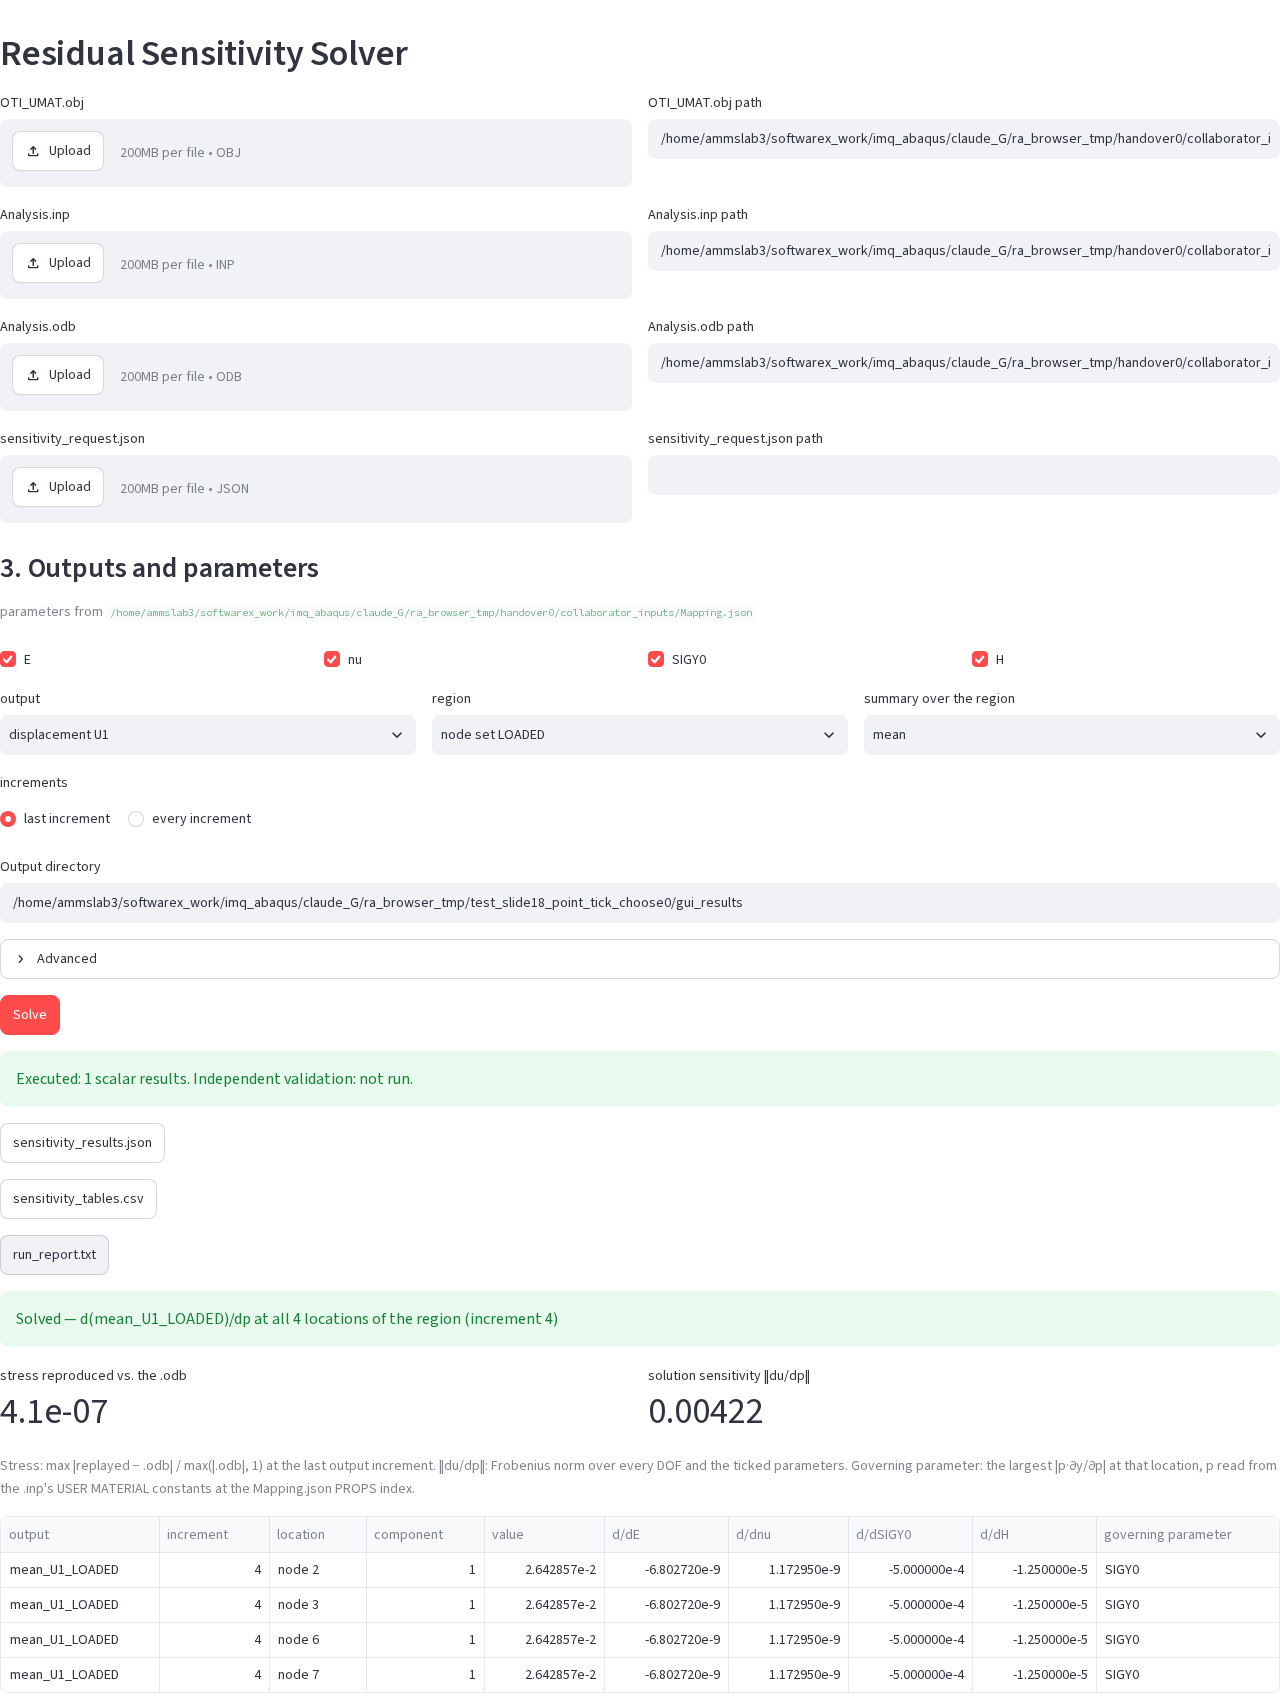
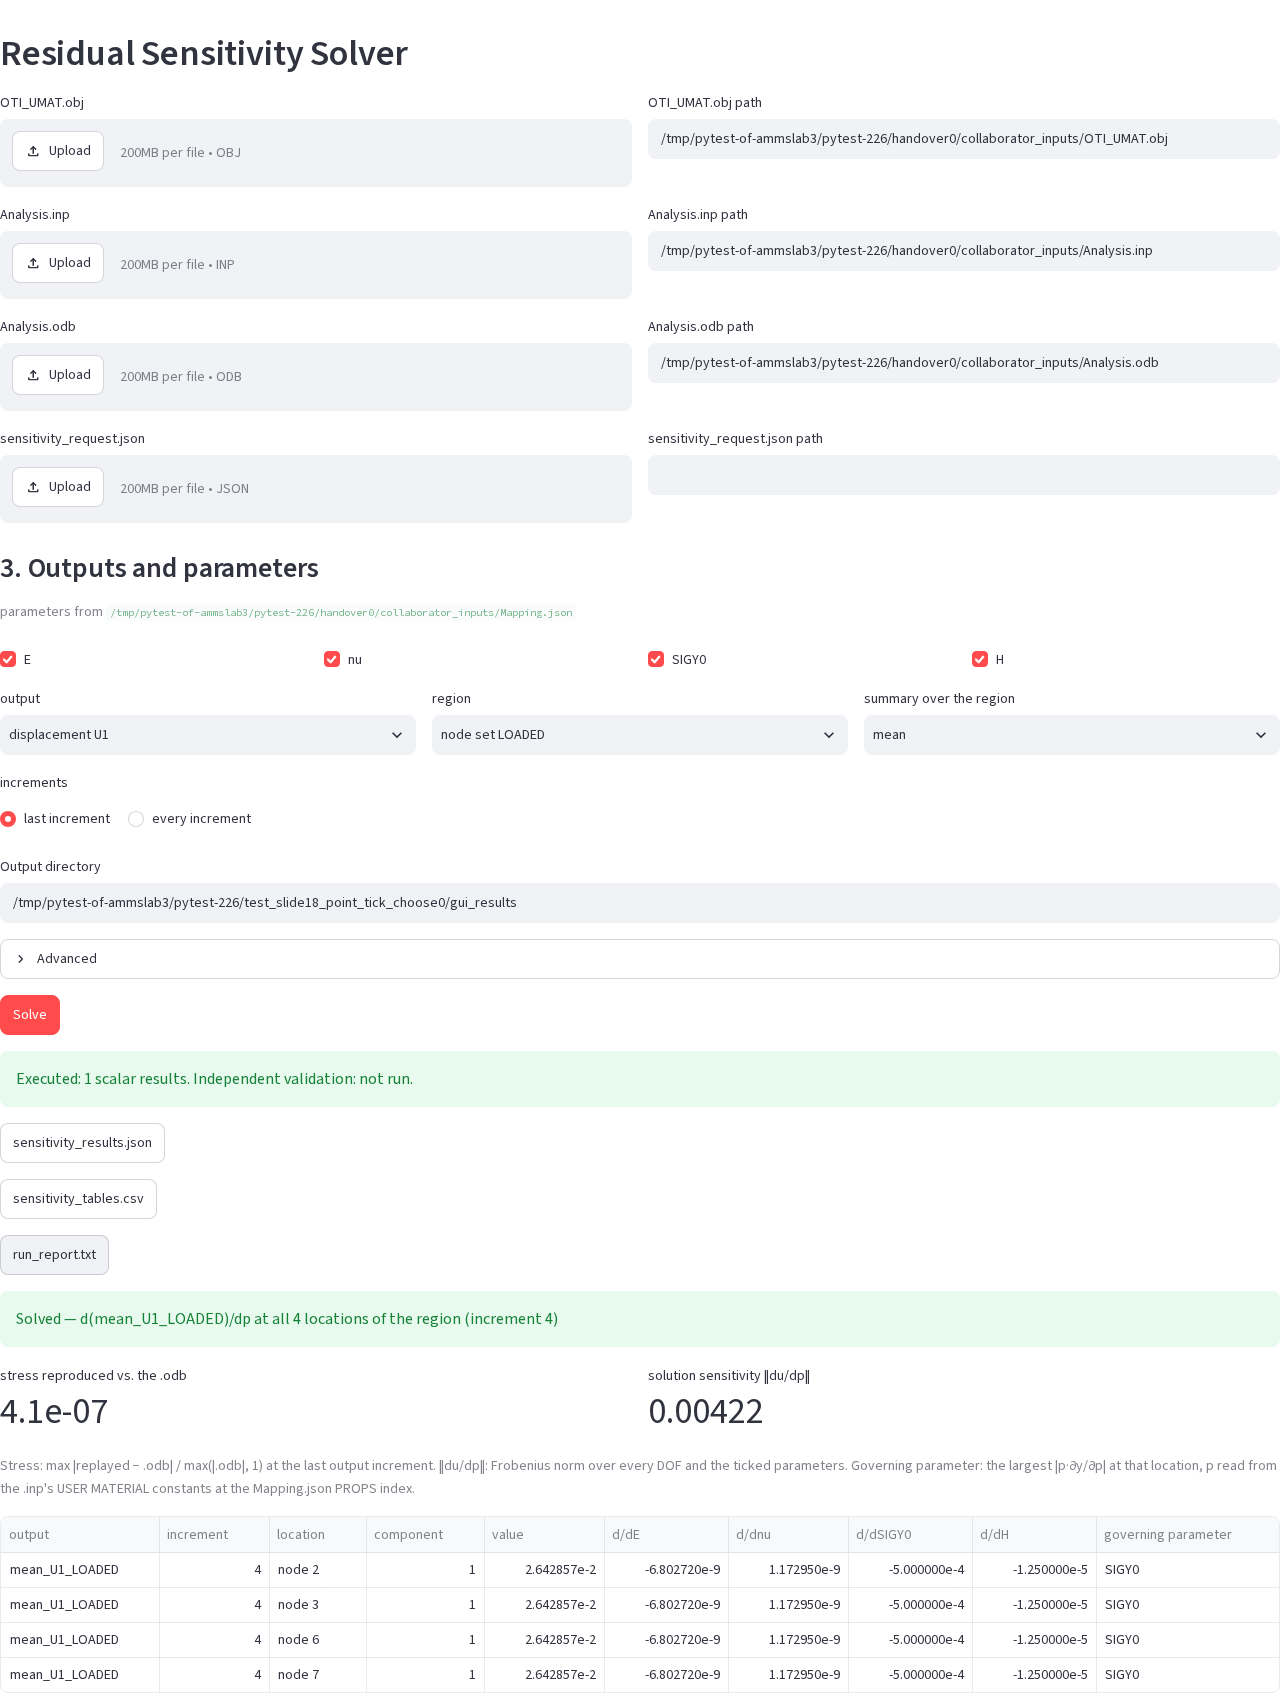
Show the equivalent plastic strain at every integration point after Solve
The browser test now makes a second Solve on the same saved analysis, SDV1
over the whole mesh, and checks the eight integration points against the
uniaxial reference (EQPLAS = (300-SIGY0)/H, dEQPLAS/dSIGY0 = -1/H,
dEQPLAS/dH = -(300-SIGY0)/H^2). The screenshot of that run is in docs/GUI.md.

Offline suite: 56 failed, 299 passed, 19 skipped, 1 deselected, 5 errors
(the pre-existing fixture-fingerprint failures only).

(cherry picked from commit 845e09befee74203239fbc0f2f801874dd350e90)

diff --git a/tests/gui/test_imqcam_solve_screen_browser.py b/tests/gui/test_imqcam_solve_screen_browser.py
@@ -128,7 +128,30 @@ def test_slide18_point_tick_choose_solve(server, handed_over, tmp_path):
             downloads[name] = tmp_path / name
             event.value.save_as(downloads[name])
         save_screenshot(panel, "resasm_solve.png")
+
+        # The same analysis, the equivalent plastic strain at every integration
+        # point of the whole mesh: a new output directory, one more Solve.
+        panel.get_by_label("Output directory", exact=True).fill(str(tmp_path / "gui_sdv"))
+        panel.get_by_label("Output directory", exact=True).press("Enter")
+        settle(page)
+        output = panel.get_by_role("combobox", name="output", exact=True)
+        output.click()
+        output.fill("state variable SDV1")  # the list is long; type to filter it
+        page.get_by_role("option", name="state variable SDV1", exact=True).click()
+        settle(page)
+        expect(panel.get_by_role("combobox", name="region", exact=True)).to_match_aria_snapshot(
+            '- combobox "region": whole mesh')
+        panel.get_by_role("button", name="Solve", exact=True).click()
+        expect(panel.get_by_text(re.compile(r"^Solved — d\(mean_SDV1_all\)/dp at all 8 locations"))).to_be_visible(
+            timeout=600000)
+        settle(page)
+        save_screenshot(panel, "resasm_solve_sdv_all_points.png")
         browser.close()
+    sdv = json.loads((tmp_path / "gui_sdv" / "sensitivity_results.json").read_text())
+    (sdv_row,) = sdv["results"]
+    assert sdv_row["value"] == pytest.approx((300 - SIGY0) / H, rel=1e-5)
+    assert sdv_row["derivatives"]["SIGY0"] == pytest.approx(-1 / H, rel=1e-5)
+    assert sdv_row["derivatives"]["H"] == pytest.approx(-(300 - SIGY0) / H ** 2, rel=1e-5)
 
     summary = json.loads(downloads["sensitivity_results.json"].read_text())
     assert "Status: executed successfully" in downloads["run_report.txt"].read_text()

diff --git a/docs/GUI.md b/docs/GUI.md
@@ -103,12 +103,21 @@ The same request through `resasm request` gave identical numbers. Stress was
 reproduced to 4.1e-07, ‖du/dp‖ was 0.00422, and the maximum scaled free
 residual was 4.12e-07.
 
+A second Solve on the same analysis chose state variable SDV1 (equivalent
+plastic strain) over the whole mesh. The table has one row per integration
+point, all eight of them. Each has EQPLAS 2.500000e-2 = (300-SIGY0)/H,
+dEQPLAS/dSIGY0 = -5.000000e-4 = -1/H and dEQPLAS/dH = -1.250000e-5 =
+-(300-SIGY0)/H². dE is at most 9.3e-23 and dnu at most 3.1e-17, both zero to
+rounding as the uniaxial reference says:
+
+![Equivalent plastic strain and its derivatives at every integration point](screenshots/resasm_solve_sdv_all_points.png)
+
 ## Tests
 
 | Test | What it drives | Run |
 | --- | --- | --- |
 | `tests/gui/test_imqcam_solve_screen.py` | the screen through `streamlit.testing` (AppTest), with a freshly built OTI object and its Mapping.json. The ODB export is replaced by the genuine export of the same ODB (`tests/fixtures/presentation_j2/fields.json`). Checks the ticks, output, region and Solve for U on node set LOADED, S11 and SDV1 at every integration point, and RF1 on XZERO against the uniaxial references and against `resasm request`. Also checks that a supplied request file still wins and that there is nothing to tick without a mapping | the offline suite |
-| `tests/gui/test_imqcam_solve_screen_browser.py` | slide 17's hand-over consumed by slide 18 in headless Chromium, on the real ODB (licensed Abaqus Python). Writes `docs/screenshots/resasm_solve.png` | `python -m pytest -m gui tests/gui` (also marked `abaqus`) |
+| `tests/gui/test_imqcam_solve_screen_browser.py` | slide 17's hand-over consumed by slide 18 in headless Chromium, on the real ODB (licensed Abaqus Python): U1 on node set LOADED, then SDV1 on the whole mesh. Writes `docs/screenshots/resasm_solve.png` and `docs/screenshots/resasm_solve_sdv_all_points.png` | `python -m pytest -m gui tests/gui` (also marked `abaqus`) |
 | `tests/integration/test_presentation_request.py` | Copilot's request-file route, unchanged | the offline suite |
 
 `scripts/check_presentation_browser.py` is the request-file route in a

diff --git a/docs/evidence/claude_G.md b/docs/evidence/claude_G.md
@@ -65,7 +65,8 @@ shows only the reduced value the request computed.
 - `tests/gui/test_imqcam_solve_screen.py` (AppTest, offline suite, 6 tests),
   `tests/gui/test_imqcam_solve_screen_browser.py` (`-m gui`, abaqus, 1 test),
   `tests/gui/gui_helpers.py`, `tests/gui/conftest.py`.
-- `docs/GUI.md`, `docs/screenshots/resasm_solve.png`.
+- `docs/GUI.md`, `docs/screenshots/resasm_solve.png`,
+  `docs/screenshots/resasm_solve_sdv_all_points.png`.
 
 ## Commands and results (2026-09-18)
 
@@ -78,7 +79,7 @@ python -m pytest -q -p no:cacheprovider tests/gui/test_imqcam_solve_screen.py \
   tests/integration/test_presentation_request.py tests/framework/test_gui_is_a_thin_cli_front_end.py
     -> 45 passed
 python -m pytest -q -p no:cacheprovider -m gui tests/gui
-    -> 1 passed, 6 deselected (real ODB through abaqus python, 29 s)
+    -> 1 passed, 6 deselected (real ODB through abaqus python, two Solves, 41 s)
 ```
 
 Real-ODB run (inputs: provider built by `python -m umat_oti.provider.collaborator`
